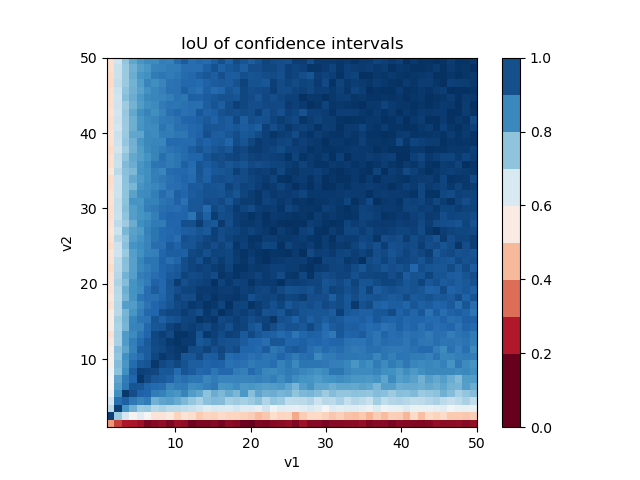
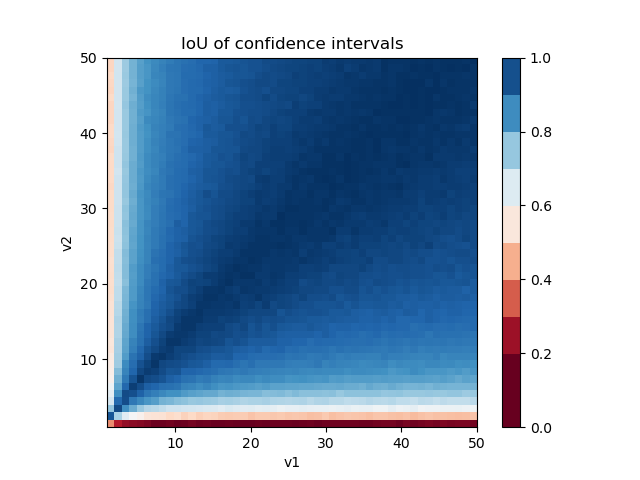
Reliability graph smoothened

diff --git a/src/analysis.py b/src/analysis.py
@@ -185,12 +185,12 @@ def plot_k0(m1, m2, v1s, lb1, lb2, ub1, ub2, ymin=None, ymax=None, xscale=None, 
         return fig
 
 
-def plot_reliability(v1s, v2s, p1, p2, **kwargs):
+def plot_reliability(v1s, v2s, p1, p2, n=100000, **kwargs):
     m = np.zeros((len(v1s), len(v2s)))
     for (i, v1) in enumerate(v1s):
         for (j, v2) in enumerate(v2s):
             _, lb1, ub1 = confidence_ours(v1, v2, p1, p2)
-            _, lb2, ub2 = confidence_true(v1, v2, p1, p2)
+            _, lb2, ub2 = confidence_true(v1, v2, p1, p2, n=n)
             m[i,j] = IoU(lb1, ub1, lb2, ub2)
     plot_reliability0(m, v1s, v2s, **kwargs)
 
